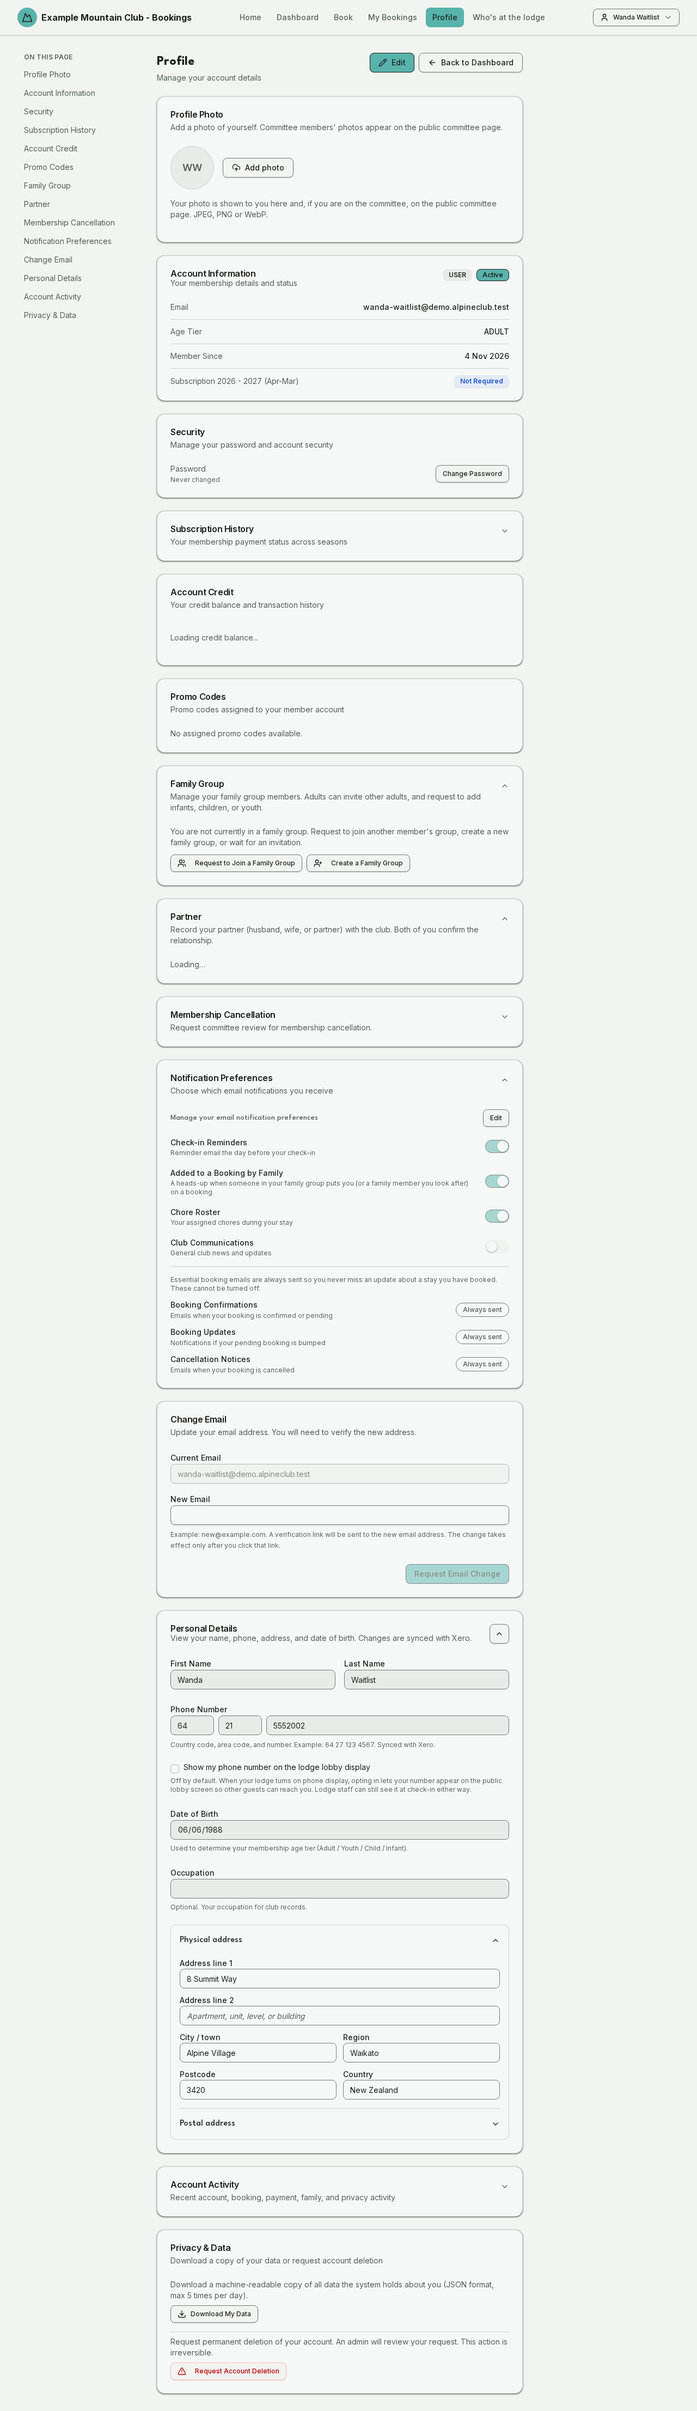
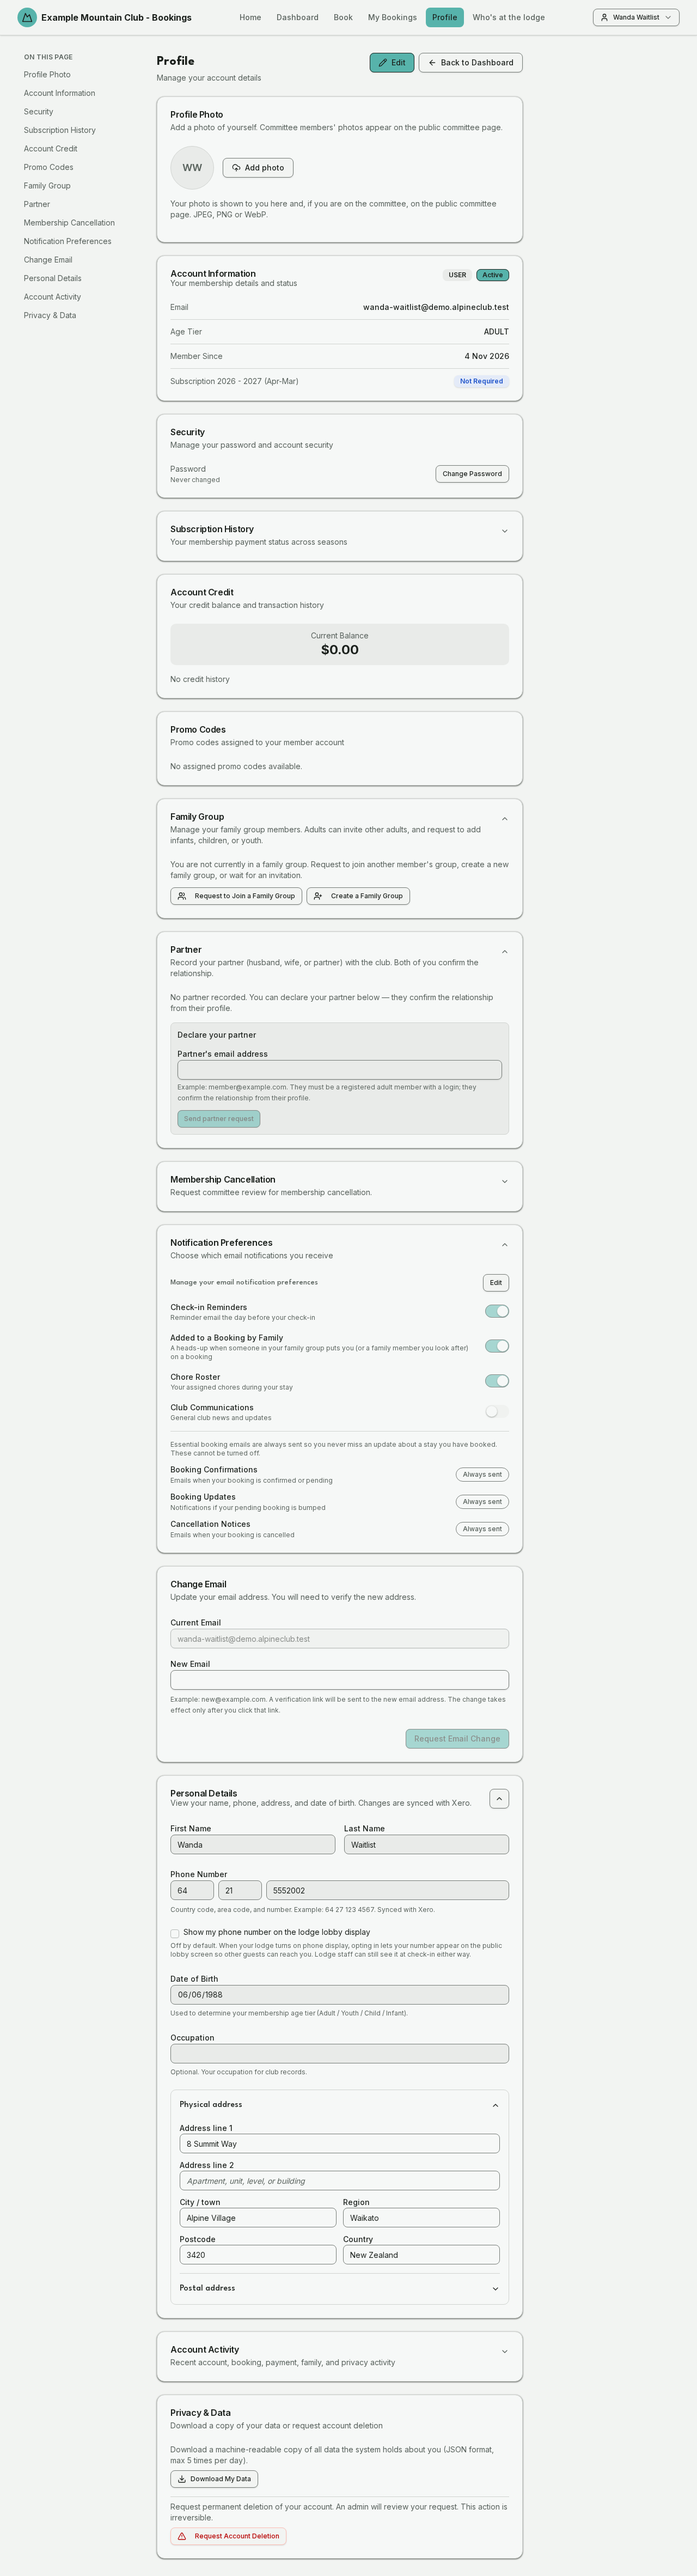
fix(docs): capture the profile only after all sections settle

diff --git a/e2e/tools/capture-screenshots.ts b/e2e/tools/capture-screenshots.ts
@@ -37,6 +37,7 @@ import path from "node:path";
 import process from "node:process";
 import {
   chromium,
+  expect,
   type Browser,
   type BrowserContext,
   type Page,
@@ -513,13 +514,10 @@ async function shoot(context: BrowserContext, capture: Capture): Promise<void> {
     // The 'load' event fires before that fetch resolves, so a naive shot would
     // capture the spinner. Wait for every "Loading" sentinel to disappear (a
     // detached/hidden element counts as satisfied immediately, so pages that
-    // never show one are unaffected), then let the loaded content paint. The
-    // .catch keeps a genuinely stuck page from aborting the whole run.
-    await page
-      .locator("text=/Loading/i")
-      .first()
-      .waitFor({ state: "hidden", timeout: 15_000 })
-      .catch(() => undefined);
+    // never show one are unaffected), then let the loaded content paint.
+    // Check every visible sentinel and fail rather than publish an unfinished page.
+    await expect(page.locator("text=/Loading/i").filter({ visible: true }))
+      .toHaveCount(0, { timeout: 30_000 });
     // Recharts animates freshly-loaded SVG series for 1.5s. Wait through that
     // shared finite animation so named captures contain the chart data rather
     // than only axes/legends from the first frame.
